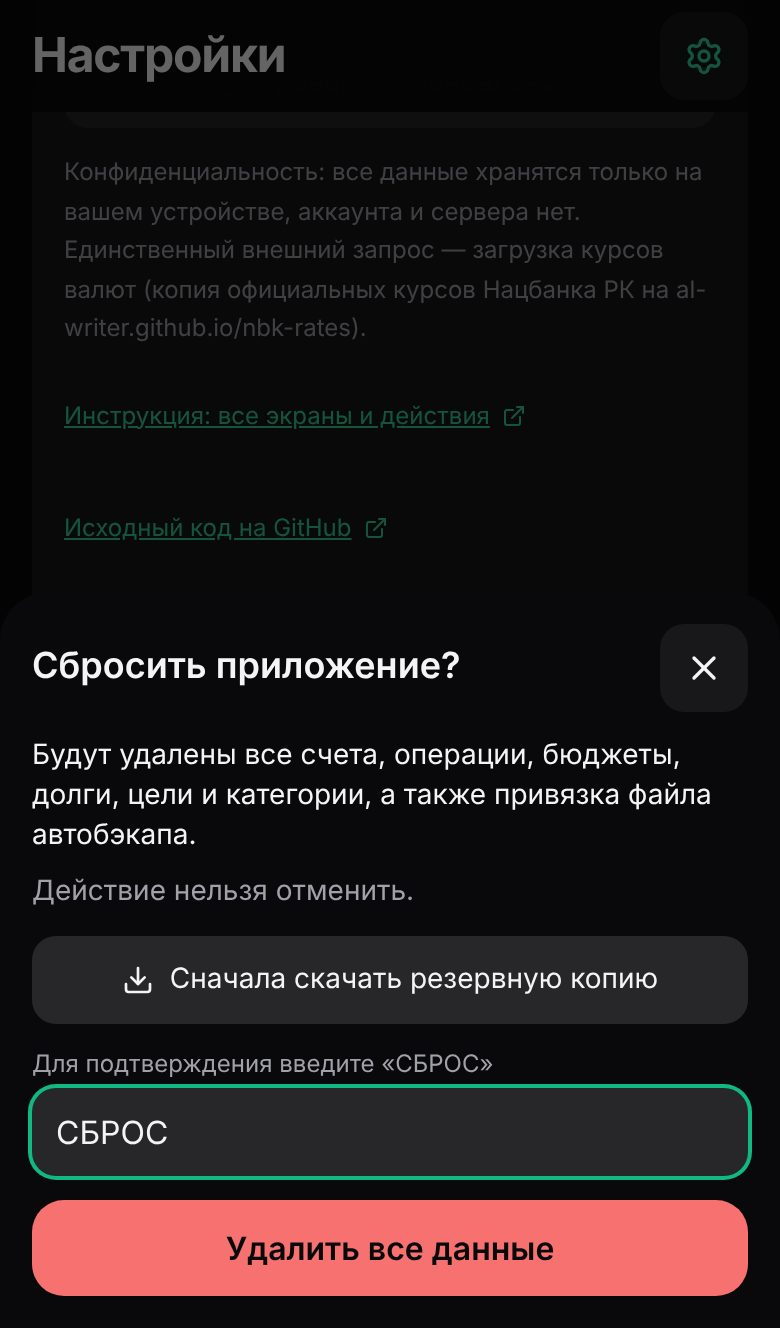
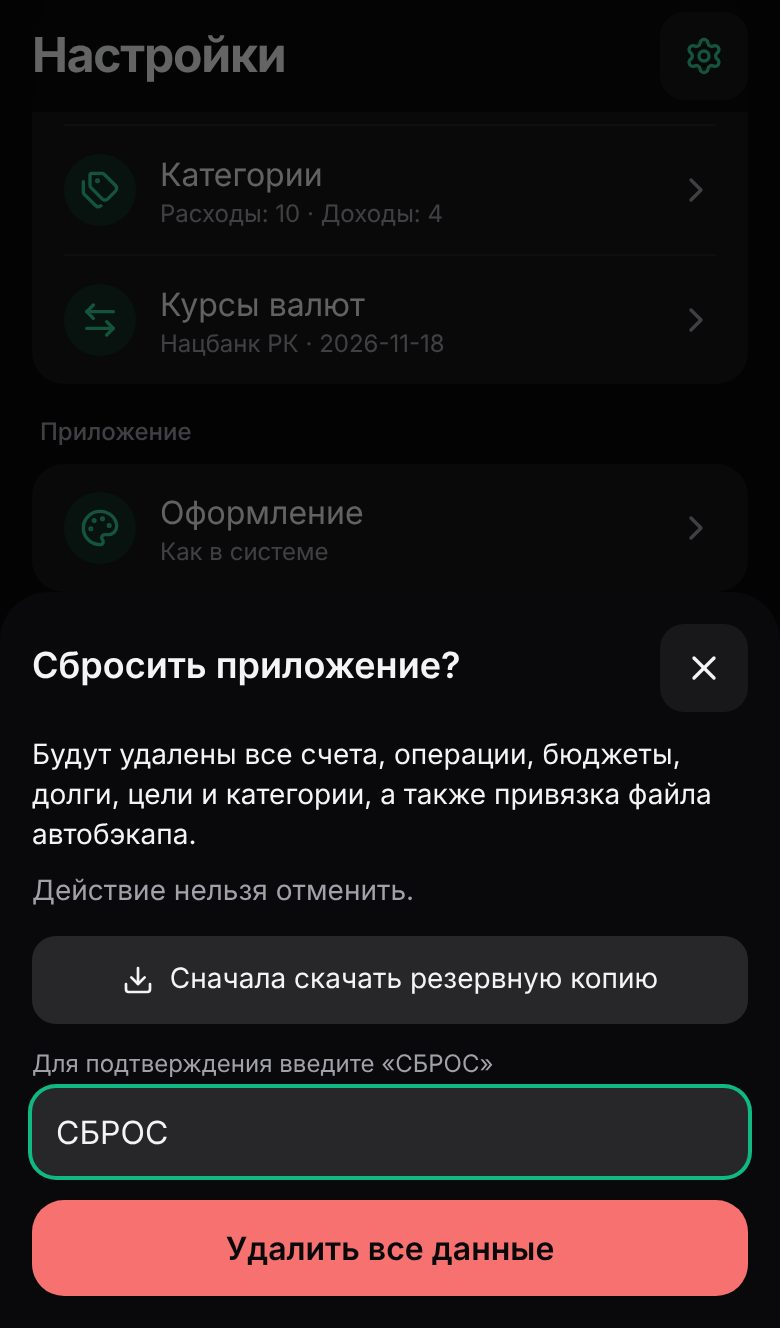
docs(guide): «Настройки» списком строк и отдельные экраны в инструкции
Раздел «Счета и категории» описывает главный экран «Настроек» и его группы;
пути «Настройки → Резервные копии», «Восстановить из файла» и строка
«Полный сброс приложения» вместо «Сохранности данных» и «Опасной зоны». Новый
скриншот accounts.jpg; скрипт снимает счета, курсы и копии с их экранов.

Claude-Session: https://claude.ai/code/session_01GqRcq2FEwCs6WbUVJJtgvf

diff --git a/docs/index.html b/docs/index.html
@@ -424,10 +424,10 @@
         <!-- Счета и категории -->
         <section id="accounts" class="scroll-mt-12 lg:scroll-mt-4">
           <h2>Счета и категории</h2>
-          <p class="lead">Всё в <span class="ui">Настройки</span> — значок шестерёнки вверху справа.</p>
+          <p class="lead">Всё в <span class="ui">Настройки</span> — значок шестерёнки вверху справа. Там короткий список строк по группам: <b>Учёт</b> (Счета, Категории, Курсы валют), <b>Приложение</b> (Оформление), <b>Данные</b> (Резервные копии), затем <b>О приложении</b> и <b>Полный сброс приложения</b>. Под каждой строкой видно текущее состояние, нажатие открывает свой экран; <span class="ui">‹ Настройки</span> — назад.</p>
           <h3>Счета</h3>
           <ol class="steps">
-            <li>Нажмите <span class="ui">+ Добавить счёт</span>.</li>
+            <li>Откройте <span class="ui">Настройки → Счета</span> и нажмите <span class="ui">+ Добавить счёт</span>.</li>
             <li>Введите название, тип (карта, наличные, депозит), валюту (KZT, USD, EUR, RUB) и текущий остаток.</li>
             <li>Нажмите <span class="ui">Создать счёт</span>.</li>
           </ol>
@@ -442,8 +442,12 @@
           </ul>
           <div class="shots">
             <figure class="shot">
-              <button type="button"><img src="/docs/img/settings.jpg" alt="Настройки: счета и строка «Категории»" width="390" height="664" loading="lazy" /></button>
-              <figcaption>Счета в настройках</figcaption>
+              <button type="button"><img src="/docs/img/settings.jpg" alt="Настройки: строки «Счета», «Категории», «Курсы валют», «Оформление», «Резервные копии» со сводкой" width="390" height="664" loading="lazy" /></button>
+              <figcaption>Настройки</figcaption>
+            </figure>
+            <figure class="shot">
+              <button type="button"><img src="/docs/img/accounts.jpg" alt="Экран «Счета»: список счетов и кнопка добавления" width="390" height="664" loading="lazy" /></button>
+              <figcaption>Счета</figcaption>
             </figure>
             <figure class="shot">
               <button type="button"><img src="/docs/img/account-add.jpg" alt="Форма нового счёта: название, тип, валюта, остаток" width="390" height="664" loading="lazy" /></button>
@@ -468,7 +472,7 @@
             <li>При запуске приложение само загружает официальные курсы Национального банка РК (раз в день). Это единственный запрос в интернет.</li>
             <li><span class="ui">Обновить курсы</span> — загрузить свежие прямо сейчас.</li>
             <li>Можно вписать курсы вручную и нажать <span class="ui">Сохранить</span> — например, курс вашего банка.</li>
-            <li>Под заголовком видно источник и дату: «Нацбанк РК» или «Вручную».</li>
+            <li>Экран <span class="ui">Настройки → Курсы валют</span>. Вверху видно источник и дату: «Нацбанк РК» или «Вручную».</li>
           </ul>
           <div class="callout warn">
             <span class="icon" aria-hidden="true">⚠</span>
@@ -476,7 +480,7 @@
           </div>
           <div class="shots">
             <figure class="shot">
-              <button type="button"><img src="/docs/img/settings-rates.jpg" alt="Блок курсов валют: USD, EUR, RUB к тенге" width="390" height="664" loading="lazy" /></button>
+              <button type="button"><img src="/docs/img/settings-rates.jpg" alt="Экран «Курсы валют»: USD, EUR, RUB к тенге" width="390" height="664" loading="lazy" /></button>
               <figcaption>Курсы к тенге</figcaption>
             </figure>
           </div>
@@ -485,7 +489,7 @@
         <!-- Резервные копии -->
         <section id="backup" class="scroll-mt-12 lg:scroll-mt-4">
           <h2>Резервные копии</h2>
-          <p class="lead">Данные хранятся только на устройстве. Чтобы не потерять их вместе с телефоном, делайте копии — блок <span class="ui">Настройки → Сохранность данных</span>.</p>
+          <p class="lead">Данные хранятся только на устройстве. Чтобы не потерять их вместе с телефоном, делайте копии — экран <span class="ui">Настройки → Резервные копии</span>.</p>
           <h3>Три уровня защиты</h3>
           <ol class="steps">
             <li><b>Защита хранилища.</b> Приложение просит браузер не удалять данные при нехватке места. Если браузер отказал, будет пометка и кнопка <span class="ui">Запросить защиту</span>.</li>
@@ -500,21 +504,21 @@
           <h3>Перенос на новое устройство</h3>
           <ol class="steps">
             <li>На старом устройстве скачайте резервную копию JSON.</li>
-            <li>На новом откройте приложение → <span class="ui">Настройки → Опасная зона → Восстановить из файла</span>.</li>
+            <li>На новом откройте приложение → <span class="ui">Настройки → Резервные копии → Восстановить из файла</span>.</li>
             <li>Выберите файл. Приложение проверит его и покажет, что внутри (сколько счетов, операций, долгов, целей).</li>
             <li>Введите слово <span class="ui">ЗАМЕНИТЬ</span> и подтвердите.</li>
           </ol>
 
           <h3>Полный сброс</h3>
-          <p><span class="ui">Опасная зона → Полный сброс приложения</span> удаляет все данные. В окне подтверждения можно <span class="ui">Сначала скачать резервную копию</span>; затем введите слово <span class="ui">СБРОС</span>. Регистр не важен. Esc или крестик закрывают окно без последствий.</p>
+          <p>Строка <span class="ui">Полный сброс приложения</span> в самом низу <span class="ui">Настроек</span> удаляет все данные. В окне подтверждения можно <span class="ui">Сначала скачать резервную копию</span>; затем введите слово <span class="ui">СБРОС</span>. Регистр не важен. Esc или крестик закрывают окно без последствий.</p>
           <div class="callout warn">
             <span class="icon" aria-hidden="true">⚠</span>
             <p>Восстановление из файла и сброс нельзя отменить: текущие данные будут заменены или удалены.</p>
           </div>
           <div class="shots">
             <figure class="shot">
-              <button type="button"><img src="/docs/img/settings-backup.jpg" alt="Блок «Сохранность данных»: статус хранилища, автобэкап и скачивание копии" width="390" height="664" loading="lazy" /></button>
-              <figcaption>Сохранность данных</figcaption>
+              <button type="button"><img src="/docs/img/settings-backup.jpg" alt="Экран «Резервные копии»: автобэкап, скачивание копии, защита хранилища и восстановление" width="390" height="664" loading="lazy" /></button>
+              <figcaption>Резервные копии</figcaption>
             </figure>
             <figure class="shot">
               <button type="button"><img src="/docs/img/danger-reset.jpg" alt="Подтверждение сброса: кнопка скачать копию и ввод слова СБРОС" width="390" height="664" loading="lazy" /></button>
